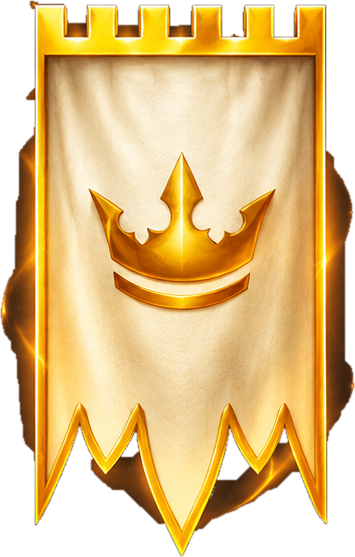
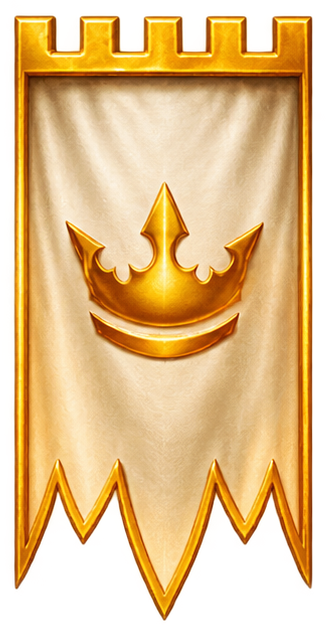
Add files via upload

diff --git a/app.js b/app.js
@@ -29,9 +29,54 @@ function opts(selected){return Object.keys(COLORS).map(s=>`<option ${s===selecte
 function resetParts(){const fixed=TYPES[type]||TYPES.POZIONE;parts=Array(size==='BASE'?4:size==='MEDIO'?5:6).fill('Equilibrio');parts[0]=fixed[0];parts[parts.length-1]=fixed[1]}
 function calc(){main.innerHTML=`<section class="screen"><h1 class="h">Ruota del Creazionismo</h1><p class="muted">Configura la combinazione. Il riconoscimento confronta le Fonti con le ricette note; la simulazione dei giri è ancora da validare.</p><div class="panel"><div class="filters"><select id="size"><option value="BASE">Base · 4 passaggi</option><option value="MEDIO">Media · 5 passaggi</option><option value="AVANZATO">Avanzata · 6 passaggi</option></select><select id="type">${Object.keys(TYPES).map(s=>`<option value="${s}">${s}</option>`).join('')}</select></div><div id="steps"></div></div><div id="results"></div></section>`;$('#size').value=size;$('#type').value=type;$('#size').onchange=e=>{size=e.target.value;resetParts();steps()};$('#type').onchange=e=>{type=e.target.value;resetParts();steps()};steps()}
 function steps(){$('#steps').innerHTML=parts.map((s,i)=>`<div class="step"><label>${i===0?'Apertura':i===parts.length-1?'Chiusura':'Passaggio '+(i+1)}</label><select data-i="${i}" ${i===parts.length-1?'disabled':''}>${opts(s)}</select><span class="dot" style="background:${COLORS[s]}">${SHORT[s]}</span></div>`).join('')+`<p class="muted">La chiusura è fissa: ${parts.at(-1)}, generazione 1. L'apertura è modificabile.</p>`;document.querySelectorAll('#steps select').forEach(el=>el.onchange=e=>{parts[+e.target.dataset.i]=e.target.value;steps()});results()}
-function wheel(){const rings=[61,91,121,151],colors=Object.values(COLORS);let s=`<svg class="wheel" viewBox="0 0 340 340" aria-label="Schema della ruota del creazionismo">`;rings.forEach((r,j)=>{s+=`<circle cx="170" cy="170" r="${r}" fill="none" stroke="#9e8d69" stroke-width="2"/>`;for(let k=0;k<12;k++){let a=(k/12)*Math.PI*2-Math.PI/2,x=170+Math.cos(a)*r,y=170+Math.sin(a)*r;s+=`<circle cx="${x}" cy="${y}" r="9" fill="${colors[(k+j*2)%6]}" stroke="#efe1c5" stroke-width="2"/>`}});s+=`<circle cx="170" cy="170" r="38" fill="#192729" stroke="#c5aa73" stroke-width="3"/><text x="170" y="175" fill="#e6cc96" text-anchor="middle" font-size="13">RUOTA</text></svg>`;return s}
+// Ruota: trascrizione esatta delle 15 posizioni per generazione dal foglio "Ruota".
+const WHEEL_ROWS=[
+['—','EQ','—','EN','FO','CA','MA','SP','—','EQ','MA','EN','CA','SP','FO'],
+['EN','—','FO','EQ','SP','—','FO','MA','EQ','CA','—','EN','SP','CA','MA'],
+['CA','FO','—','MA','EN','—','EQ','SP','EQ','SP','MA','—','CA','FO','EN'],
+['MA','—','EN','—','CA','EQ','—','EN','MA','FO','CA','EQ','SP','SP','FO']
+];
 const GENPATHS={BASE:[[4,3,2,1],[2,3,2,1],[2,1,2,1]],MEDIO:[[1,2,1,2,1],[1,2,3,2,1],[3,2,1,2,1],[3,2,3,2,1],[3,4,3,2,1]],AVANZATO:[[2,1,2,1,2,1],[2,1,2,3,2,1],[2,3,2,1,2,1],[2,3,2,3,2,1],[2,3,4,3,2,1],[4,3,2,1,2,1],[4,3,2,3,2,1],[4,3,4,3,2,1]]};
-function results(){let match=RECIPES.filter(r=>r.level===size&&r.type===type&&r.parts.length===parts.length&&r.parts.every((s,i)=>s===parts[i]));let art=['RUNA','PERGAMENA','GRIMORIO'].includes(type);let paths=GENPATHS[size];$('#results').innerHTML=`<h2 class="h">Risultati</h2><div class="panel"><div class="line"><b>Opera prevista</b><span class="badge ${match.length?'':'unknown'}">${match.length?'Scoperta':'Sconosciuta'}</span></div><p>${match.length?esc(match[0].name):'Opera non identificata'}</p><p class="muted">${match.length?esc(match[0].effect):'Nessun effetto identificato nel campione di ricette importato.'}</p>${art?'<p class="warning">Artimagia: validità da verificare.</p>':''}</div><p class="muted">Sequenze di generazioni previste dalle regole. Le 10 soluzioni più economiche saranno mostrate dopo la verifica del conteggio: mancano le lavorazioni esatte della Ruota.</p>${paths.slice(0,10).map((gens,i)=>`<details class="recipe"><summary><div class="line"><span class="name">Percorso ${i+1}</span><span class="tag">${gens.length} passaggi</span></div><p class="muted">Generazioni: ${gens.join(' → ')}</p>${dots(parts)}</summary><div class="genlist">${gens.map((g,j)=>`<div><b>${j+1}.</b> ${esc(parts[j])} · Gen. ${g}</div>`).join('')}</div>${wheel()}<p class="warning">La ruota qui è schematica: posizioni, quantità e lavorazioni sono ancora da verificare con il calcolatore di Brumo.</p></details>`).join('')}<p class="muted">Nella versione definitiva appariranno soltanto le 10 ricette con meno ingredienti, ordinate in base al calcolo effettivo.</p>`}
+const PER_STEP={1:3,2:6,3:9,4:12};
+function permutations(a){if(a.length<2)return[a];return a.flatMap((x,i)=>permutations(a.filter((_,j)=>j!==i)).map(p=>[x,...p]))}
+function scanTo(source,gen,from){const row=WHEEL_ROWS[gen-1];let first=-1,second=-1;
+  for(let step=1;step<=30;step++){
+    let pos=from===0?((step-1)%15):((from+step-1)%15);
+    if(row[pos]===SHORT[source]){if(first<0)first=step;else{second=step;break}}
+  }
+  if(first<0||second<0)return null;
+  return [first,second];
+}
+function candidate(seq,gens,choices){let pos=0,total=0,works=0,steps=[];
+  for(let i=0;i<seq.length;i++){
+    const g=gens[i],find=scanTo(seq[i],g,pos);if(!find)return null;
+    const w=find[choices[i]-1];if(w<1||w>15)return null;
+    pos=(pos+w-1)%15+1;
+    const qty=Math.ceil(w/PER_STEP[g]);total+=qty;works+=w;
+    steps.push({source:seq[i],gen:g,work:w,qty,arrival:pos,choice:choices[i]});
+  }
+  return {total,works,steps,gens,seq};
+}
+function computeTop10(sources,level){const gensList=GENPATHS[level],centers=sources.slice(1,-1),orders=permutations(centers.map((_,i)=>i));
+ const best=[];let count=0;
+ for(const gens of gensList)for(const order of orders){const seq=[sources[0],...order.map(i=>centers[i]),sources.at(-1)];
+   for(let mask=0;mask<(1<<seq.length);mask++){
+     const choices=seq.map((_,i)=>((mask>>i)&1)+1),c=candidate(seq,gens,choices);
+     if(!c)continue;count++;best.push(c);
+   }
+ }
+ best.sort((a,b)=>a.total-b.total||a.works-b.works||a.gens.join('').localeCompare(b.gens.join('')));
+ return {best:best.slice(0,10),count};
+}
+function results(){
+ const recognized=RECIPES.filter(r=>r.level===size&&r.type===type&&r.parts.length===parts.length&&r.parts[0]===parts[0]&&r.parts.at(-1)===parts.at(-1)&&r.parts.slice(1,-1).slice().sort().join('|')===parts.slice(1,-1).slice().sort().join('|'));
+ const art=['RUNA','PERGAMENA','GRIMORIO'].includes(type);
+ const {best,count}=computeTop10(parts,size);
+ $('#results').innerHTML=`<h2 class="h">Le 10 soluzioni più economiche</h2><div class="panel"><div class="line"><b>${recognized.length?esc(recognized[0].name):'Opera non identificata'}</b><span class="badge ${recognized.length?'':'unknown'}">${recognized.length?'Scoperta':'Sconosciuta'}</span></div><p class="muted">${recognized.length?esc(recognized[0].effect):'Nessun effetto noto nel ricettario locale importato.'}</p>${art?'<p class="warning">Artimagia: validità del sistema ancora da verificare.</p>':''}<p class="muted">Le Fonti centrali possono essere riordinate. La chiusura è sempre in generazione 1.</p></div>
+ <p class="muted">${count} percorsi calcolabili · ordinati per quantità di ingredienti, poi per numero totale di lavorazioni. Conteggi ricavati dalle tabelle «Ruota» e «Regole» di Brumo; da confrontare con i risultati del foglio originale.</p>
+ ${best.length?best.map((c,i)=>`<details class="recipe"><summary><div class="result-heading"><span class="name">${i+1}. Soluzione</span><span class="tag">${c.total} ingredienti · ${c.works} lavorazioni</span></div><div class="muted">Gen. ${c.gens.join(' → ')}</div>${dots(c.seq)}</summary><div class="calc-stats"><div><strong>${c.total}</strong><small>Ingredienti totali</small></div><div><strong>${c.works}</strong><small>Lavorazioni totali</small></div></div><div class="work-list">${c.steps.map((s,j)=>`<div><b>${j+1}. ${esc(s.source)} · Gen. ${s.gen}</b><p>${s.qty} ingredienti · ${s.work} lavorazioni</p><small>Pallino ${s.arrival} · ${s.choice}° occorrenza</small></div>`).join('')}</div><img class="wheel-original" src="assets/ruota-originale.png" alt="Ruota originale del Creazionismo fornita dall'autore"><p class="notice">La ruota mostrata è l'immagine originale. La posizione di arrivo di ogni passaggio è indicata sopra. La sovrapposizione grafica del percorso è prevista in un successivo aggiornamento.</p></details>`).join(''):'<div class="notice">Nessun percorso calcolabile con le regole attuali. Questo non dimostra che l’opera sia impossibile.</div>'}
+ <p class="notice">Nota: i calcoli sono una trasposizione delle regole di Brumo, non ancora certificata da un confronto sistematico per tutte le combinazioni. Il riconoscimento delle scoperte usa ancora il campione locale, non l’intero foglio Google.</p>`;
+}
 function alium(){main.innerHTML=`<section class="screen"><h1 class="h">Archivio dell'Alium</h1><p class="muted">Prime combinazioni note dalla scheda “Lista alium ordinata”.</p><input id="aq" type="search" placeholder="Cerca gemma o effetto…"><div id="alist"></div></section>`;$('#aq').oninput=filterAlium;filterAlium()}
 function filterAlium(){let q=$('#aq').value.toLowerCase();let a=ALIUM.filter(x=>(x.name+' '+x.effect).toLowerCase().includes(q));$('#alist').innerHTML=`<p class="counter">${a.length} combinazioni visualizzate</p>`+a.map(x=>`<details class="recipe"><summary><div class="line"><span class="name">◇ ${esc(x.name)}</span><span class="tag">Gen. ${x.gen}</span></div><div class="muted">Alium · ${x.e1} · ${x.e2}</div></summary><p class="info">${esc(x.effect)}</p></details>`).join('')}
 function render(){({home,recipes,calc,alium}[tab])()}resetParts();render();if('serviceWorker'in navigator)navigator.serviceWorker.register('./sw.js').catch(()=>{});

diff --git a/index.html b/index.html
@@ -17,4 +17,19 @@
 @keyframes crestFloat{to{transform:translateY(-8px)}}@keyframes solarisFloat{to{transform:translate(-50%,-54%)}}
 @media(prefers-reduced-motion:reduce){.crest,.sun{animation:none}}
 @media(max-width:370px){.crest{width:65px;height:100px}.c1,.c3{left:1%}.c2,.c4{right:1%}.sun{top:37%}}
-</style></head><body><div class="app"><div class="top"><div class="brand">✦ Ricettario delle Opere</div><span class="tiny">PROTOTIPO 0.3 · OFFLINE</span></div><nav class="nav"><button data-tab="home" class="active">⌂ Home</button><button data-tab="recipes">▤ Ricette</button><button data-tab="calc">◎ Calcolatore</button><button data-tab="alium">◇ Alium</button></nav><main id="main"></main><footer class="foot">Bollaverde · Prototipo personale · Dati dimostrativi estratti dai fogli originali</footer></div><script src="app.js"></script></body></html>
+
+/* 0.4: trasparenza reale degli stemmi, senza pannelli neri */
+.crest,.sun,.crest img,.sun img{background:transparent!important;box-shadow:none!important;border:0!important;overflow:visible!important}
+.crest img,.sun img{object-fit:contain!important}
+.hero-title{pointer-events:none}.crest{z-index:3}
+.wheel-original{width:min(100%,460px);display:block;margin:12px auto;border-radius:10px;background:#f5f0e8}
+.calc-stats{display:grid;grid-template-columns:repeat(2,minmax(0,1fr));gap:8px;margin:12px 0}
+.calc-stats>div{border:1px solid #62573e;border-radius:10px;padding:10px;background:#122023}
+.calc-stats strong{display:block;color:#f0d18f;font-size:21px}
+.calc-stats small{font-size:11px;color:#c1b8a7}
+.result-heading{display:flex;justify-content:space-between;gap:8px;align-items:center}
+.work-list{display:grid;grid-template-columns:repeat(2,1fr);gap:5px;font-size:12px;margin-top:12px}
+.work-list div{background:#101b1e;padding:8px;border-radius:7px}
+.work-list b{color:#ebcf90}
+.notice{padding:12px;border-left:3px solid #bda66f;background:#2a291e;color:#e3d4b6;font-size:12px;line-height:1.5}
+</style></head><body><div class="app"><div class="top"><div class="brand">✦ Ricettario delle Opere</div><span class="tiny">VERSIONE 0.4 · OFFLINE</span></div><nav class="nav"><button data-tab="home" class="active">⌂ Home</button><button data-tab="recipes">▤ Ricette</button><button data-tab="calc">◎ Calcolatore</button><button data-tab="alium">◇ Alium</button></nav><main id="main"></main><footer class="foot">Bollaverde · Versione personale · Calcoli basati sulle tabelle Ruota e Regole · Verifica consigliata</footer></div><script src="app.js"></script></body></html>

diff --git a/sw.js b/sw.js
@@ -1,1 +1,1 @@
-const CACHE='ricettario-opere-v03';const FILES=['./','./index.html','./app.js','./manifest.webmanifest','./icon.svg','./assets/castello-digitale.webp','./assets/solaris.png','./assets/luxia.png','./assets/solcarune.png','./assets/rivargento.png','./assets/morker.png'];self.addEventListener('install',e=>e.waitUntil(caches.open(CACHE).then(c=>c.addAll(FILES)).then(()=>self.skipWaiting())));self.addEventListener('activate',e=>e.waitUntil(caches.keys().then(keys=>Promise.all(keys.filter(k=>k!==CACHE).map(k=>caches.delete(k)))).then(()=>self.clients.claim())));self.addEventListener('fetch',e=>{if(e.request.method==='GET')e.respondWith(caches.match(e.request).then(c=>c||fetch(e.request)))});
+const CACHE='ricettario-opere-v04';const FILES=['./','./index.html','./app.js','./manifest.webmanifest','./icon.svg','./assets/castello-digitale.webp','./assets/solaris.png','./assets/luxia.png','./assets/solcarune.png','./assets/rivargento.png','./assets/morker.png','./assets/ruota-originale.png'];self.addEventListener('install',e=>e.waitUntil(caches.open(CACHE).then(c=>c.addAll(FILES)).then(()=>self.skipWaiting())));self.addEventListener('activate',e=>e.waitUntil(caches.keys().then(keys=>Promise.all(keys.filter(k=>k!==CACHE).map(k=>caches.delete(k)))).then(()=>self.clients.claim())));self.addEventListener('fetch',e=>{if(e.request.method==='GET')e.respondWith(caches.match(e.request).then(c=>c||fetch(e.request)))});
